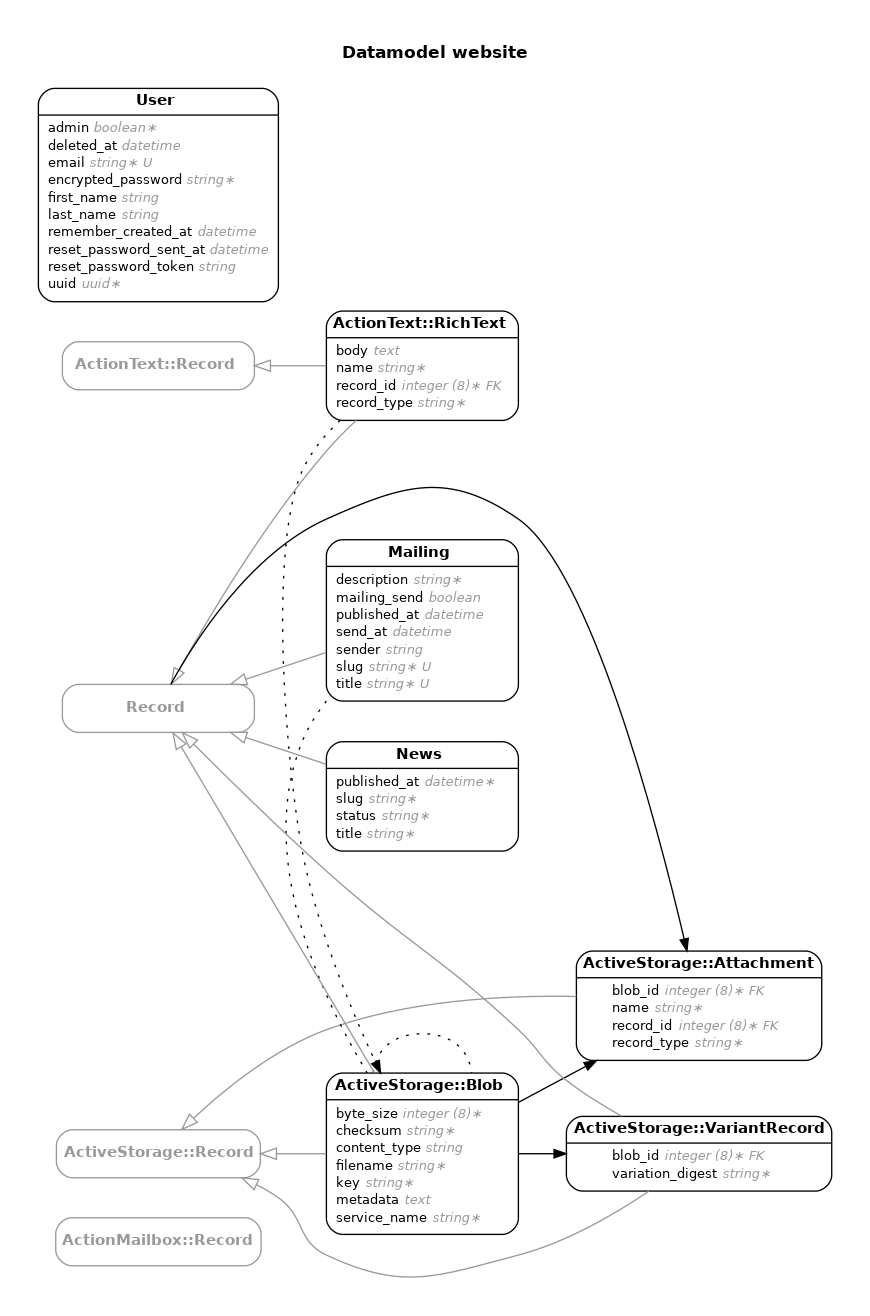
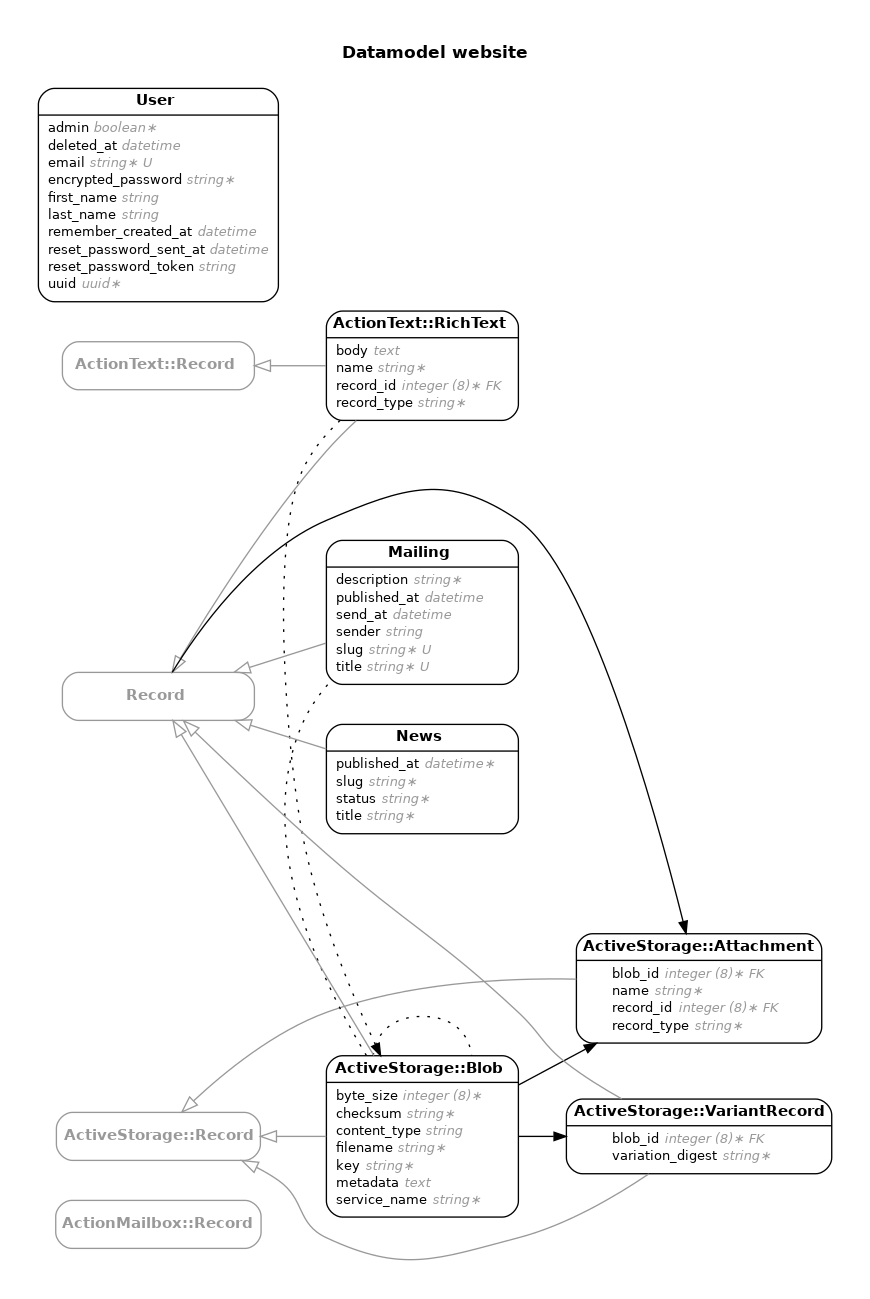
Refactor mailing_send

diff --git a/db/schema.rb b/db/schema.rb
@@ -10,7 +10,7 @@
 #
 # It's strongly recommended that you check this file into your version control system.
 
-ActiveRecord::Schema.define(version: 2021_02_19_143933) do
+ActiveRecord::Schema.define(version: 2021_03_24_142938) do
 
   # These are extensions that must be enabled in order to support this database
   enable_extension "pgcrypto"
@@ -74,7 +74,6 @@ ActiveRecord::Schema.define(version: 2021_02_19_143933) do
     t.datetime "updated_at", precision: 6, null: false
     t.string "slug", null: false
     t.datetime "send_at"
-    t.boolean "mailing_send", default: false
     t.string "sender"
     t.index ["slug"], name: "index_mailings_on_slug", unique: true
     t.index ["title"], name: "index_mailings_on_title", unique: true

diff --git a/spec/models/mailing_spec.rb b/spec/models/mailing_spec.rb
@@ -4,7 +4,6 @@
 #
 #  id           :bigint           not null, primary key
 #  description  :string           not null
-#  mailing_send :boolean          default(FALSE)
 #  published_at :datetime
 #  send_at      :datetime
 #  sender       :string
@@ -29,7 +28,6 @@ RSpec.describe Mailing, type: :model do
   end
 
   it { is_expected.to have_db_column(:description).of_type(:string).with_options(null: false) }
-  it { is_expected.to have_db_column(:mailing_send).of_type(:boolean) }
   it { is_expected.to have_db_column(:published_at).of_type(:datetime) }
   it { is_expected.to have_db_column(:send_at).of_type(:datetime) }
   it { is_expected.to have_db_column(:sender).of_type(:string) }

diff --git a/app/models/mailing.rb b/app/models/mailing.rb
@@ -6,7 +6,6 @@
 #
 #  id           :bigint           not null, primary key
 #  description  :string           not null
-#  mailing_send :boolean          default(FALSE)
 #  published_at :datetime
 #  send_at      :datetime
 #  sender       :string
@@ -33,4 +32,8 @@ class Mailing < ApplicationRecord
   validates :description, presence: true
   validates :title, presence: true, length: { minimum: 5 }, uniqueness: true
   validates :slug, presence: true, uniqueness: true
+
+  def mailing_send
+    !send_at.nil?
+  end
 end

diff --git a/spec/factories/mailing.rb b/spec/factories/mailing.rb
@@ -2,7 +2,6 @@ FactoryBot.define do
   factory :mailing do
     id { Faker::Number.number }
     description { Faker::Lorem.words(number: rand(2..10)) }
-    mailing_send { [true, false].sample }
     published_at { Time.zone.now }
     send_at { [Time.zone.now, nil].sample }
     sender { Faker::Number.number }

diff --git a/app/controllers/mailings_controller.rb b/app/controllers/mailings_controller.rb
@@ -70,7 +70,6 @@ class MailingsController < ApplicationController
       end
       @mailing.sender = current_user.id
       @mailing.send_at = Time.zone.now
-      @mailing.mailing_send = true
       @mailing.save!
     end
     redirect_to @mailing, notice: "Nieuwsbrief #{@mailing.slug} is verzonden"

diff --git a/db/migrate/20210324142938_remove_mailing_send_from_mailing.rb b/db/migrate/20210324142938_remove_mailing_send_from_mailing.rb
@@ -1,0 +1,5 @@
+class RemoveMailingSendFromMailing < ActiveRecord::Migration[6.1]
+  def change
+    remove_column :mailings, :mailing_send, :boolean
+  end
+end
